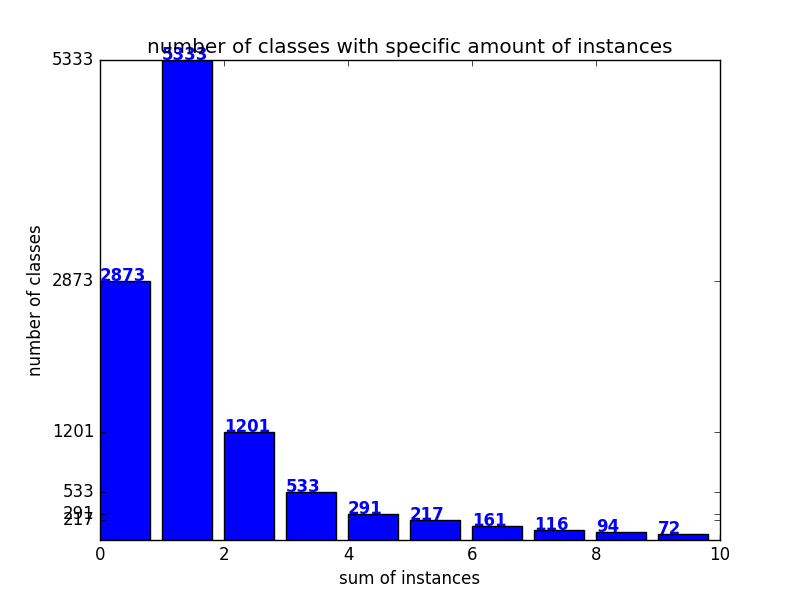
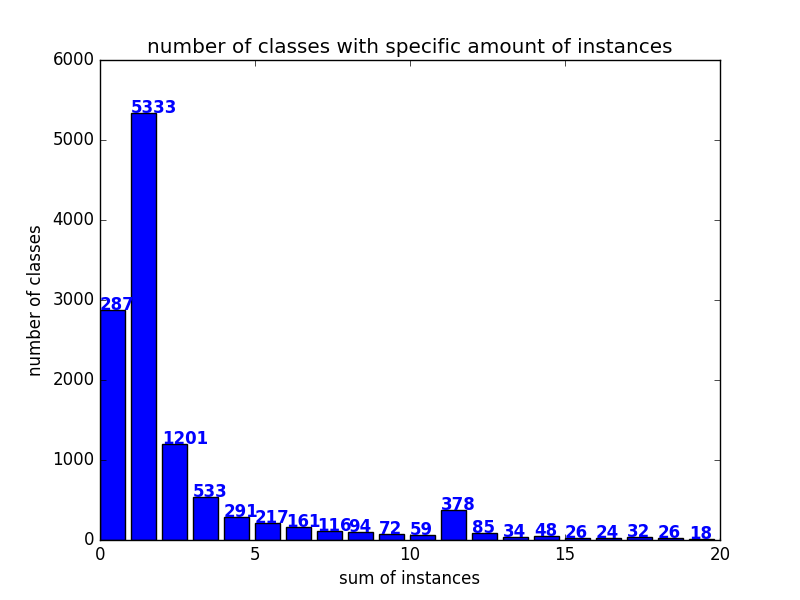
Improved plot layout. Rerun plot creation.

diff --git a/data_analysis/create_plots.py b/data_analysis/create_plots.py
@@ -36,12 +36,12 @@ def create_plots(analysis_path: str, property_sum_fig: str, instance_sum_fig: st
     y = [i[1] for i in property_counts]
     plt.bar(x, y)
     # set x axis steps
-    plt.xticks(x)
+    plt.xlim(0, 20)
     plt.title('number of classes with specific amount of properties')
     plt.xlabel('sum of properties')
     plt.ylabel('number of classes')
     # set values on bars
-    for i, v in enumerate(y):
+    for i, v in itertools.islice(enumerate(y), 20):
         plt.text(i, v, str(v), color='blue', fontweight='bold')
 
     plt.savefig(property_sum_fig)
@@ -50,13 +50,13 @@ def create_plots(analysis_path: str, property_sum_fig: str, instance_sum_fig: st
     plt.figure(2)
     x = [i[0] for i in subclass_counts]
     y = [i[1] for i in subclass_counts]
-    plt.xlim(0, len(x))
+    plt.xlim(0, 20)
     plt.bar(x, y)
     plt.title('number of classes with a specific amount of subclasses')
     plt.xlabel('sum of subclasses')
     plt.ylabel('number of classes')
     # set values on bars
-    for i, v in enumerate(y):
+    for i, v in itertools.islice(enumerate(y), 20):
         plt.text(i, v, str(v), color='blue', fontweight='bold')
 
     plt.savefig(subclass_sum_fig)
@@ -65,13 +65,13 @@ def create_plots(analysis_path: str, property_sum_fig: str, instance_sum_fig: st
     plt.figure(3)
     x = [i[0] for i in instance_counts]
     y = [i[1] for i in instance_counts]
-    plt.xlim(0, 10)
-    plt.yticks(y[:6])
+    plt.xlim(0, 20)
+    #plt.yticks(y[:6])
     plt.bar(x, y)
     plt.title('number of classes with specific amount of instances')
     plt.xlabel('sum of instances')
     plt.ylabel('number of classes')
-    for i, v in itertools.islice(enumerate(y), 10):
+    for i, v in itertools.islice(enumerate(y), 20):
         plt.text(i, v, str(v), color='blue', fontweight='bold')
 
     plt.savefig(instance_sum_fig)
